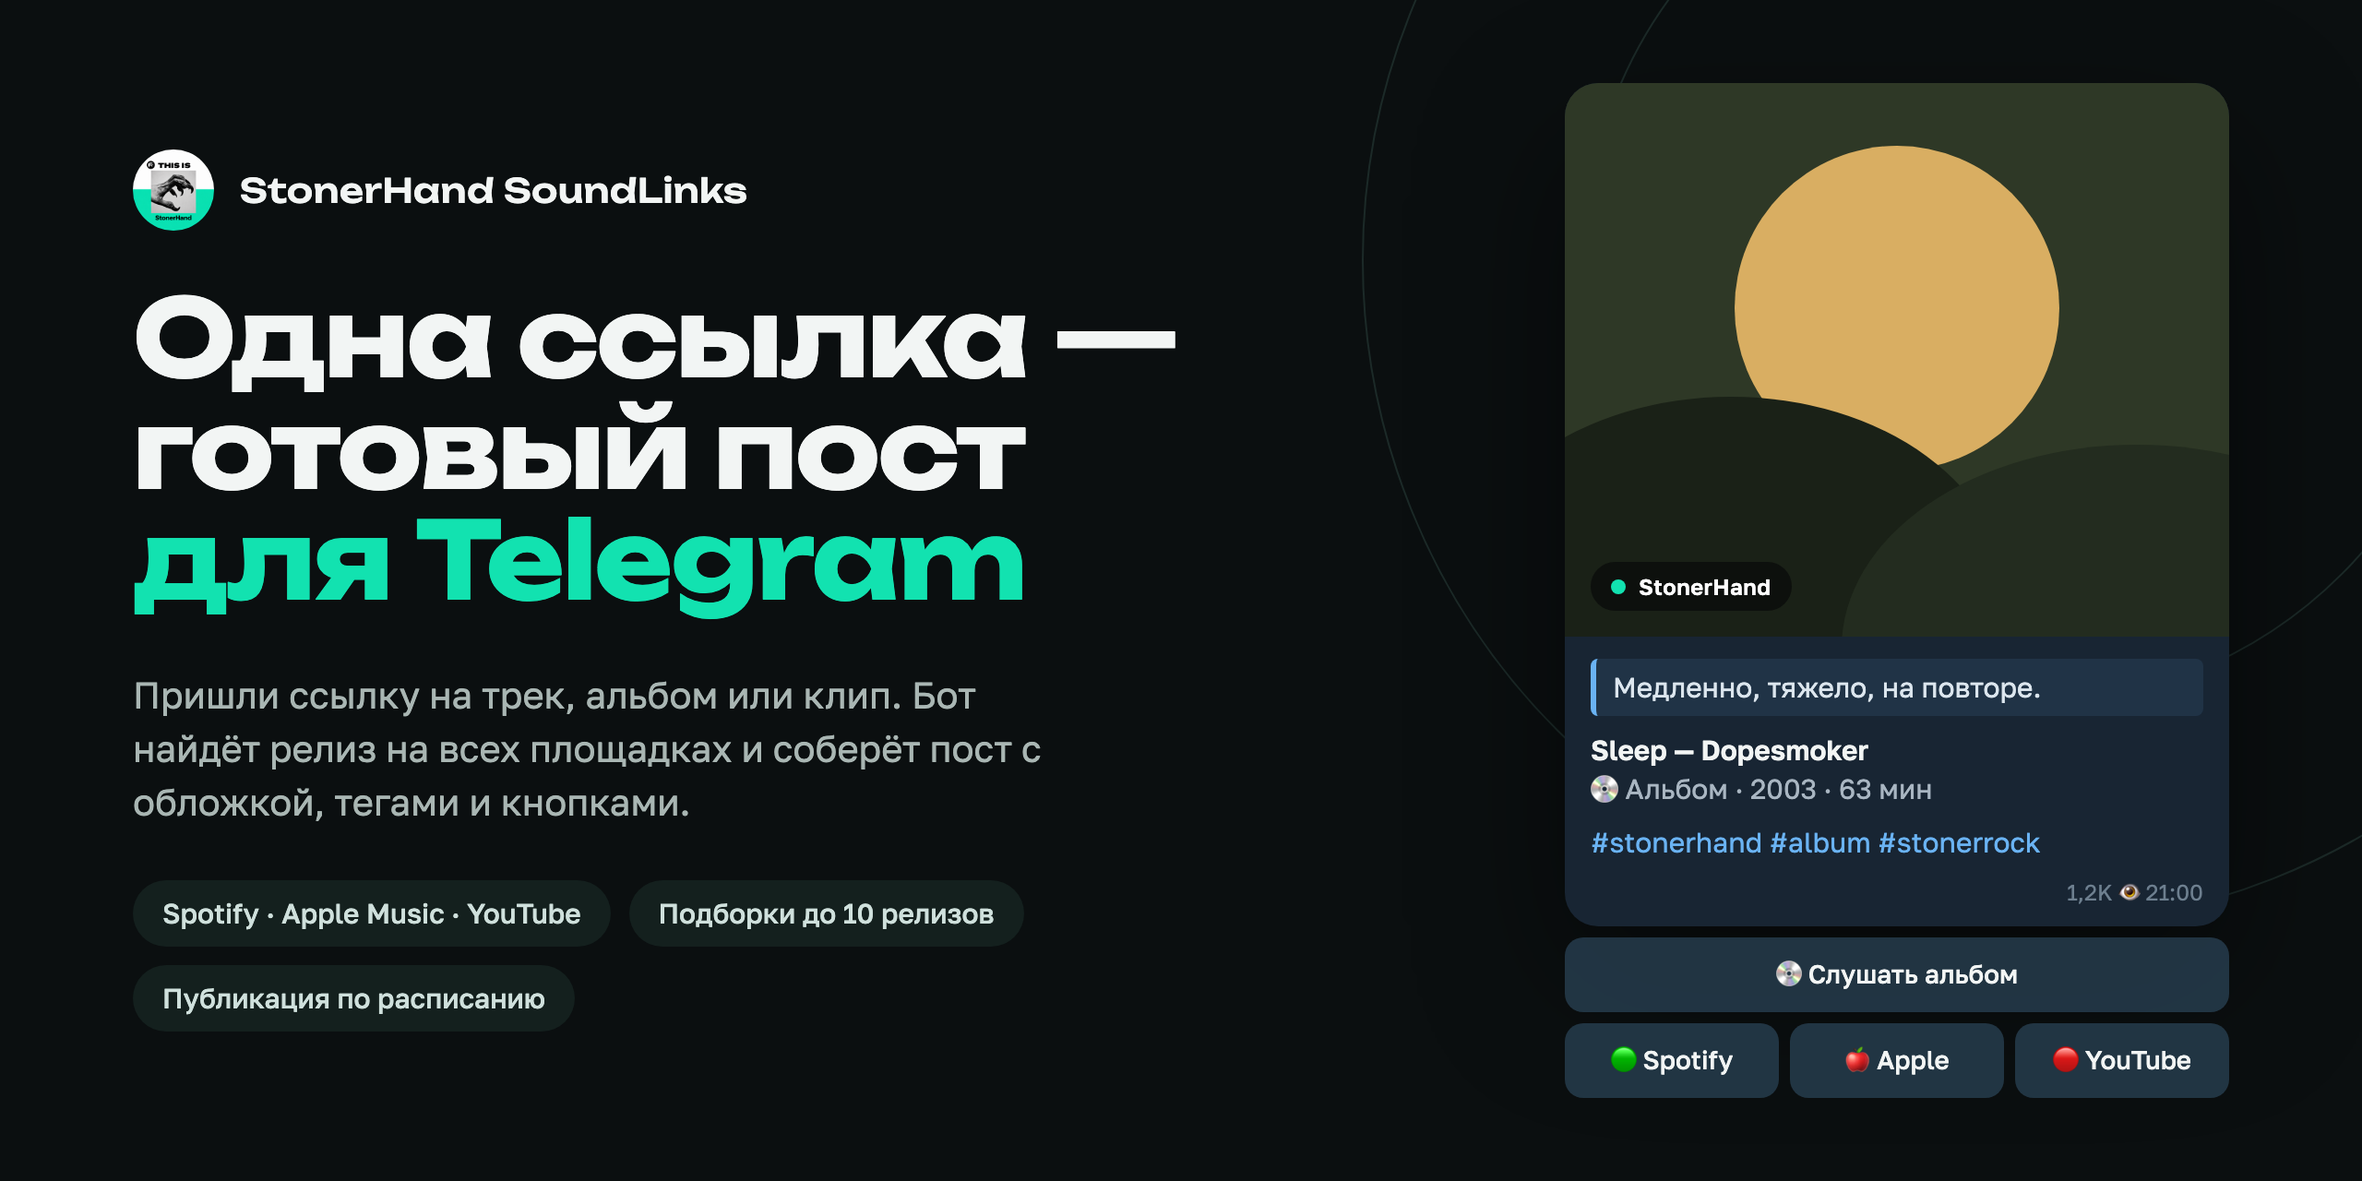
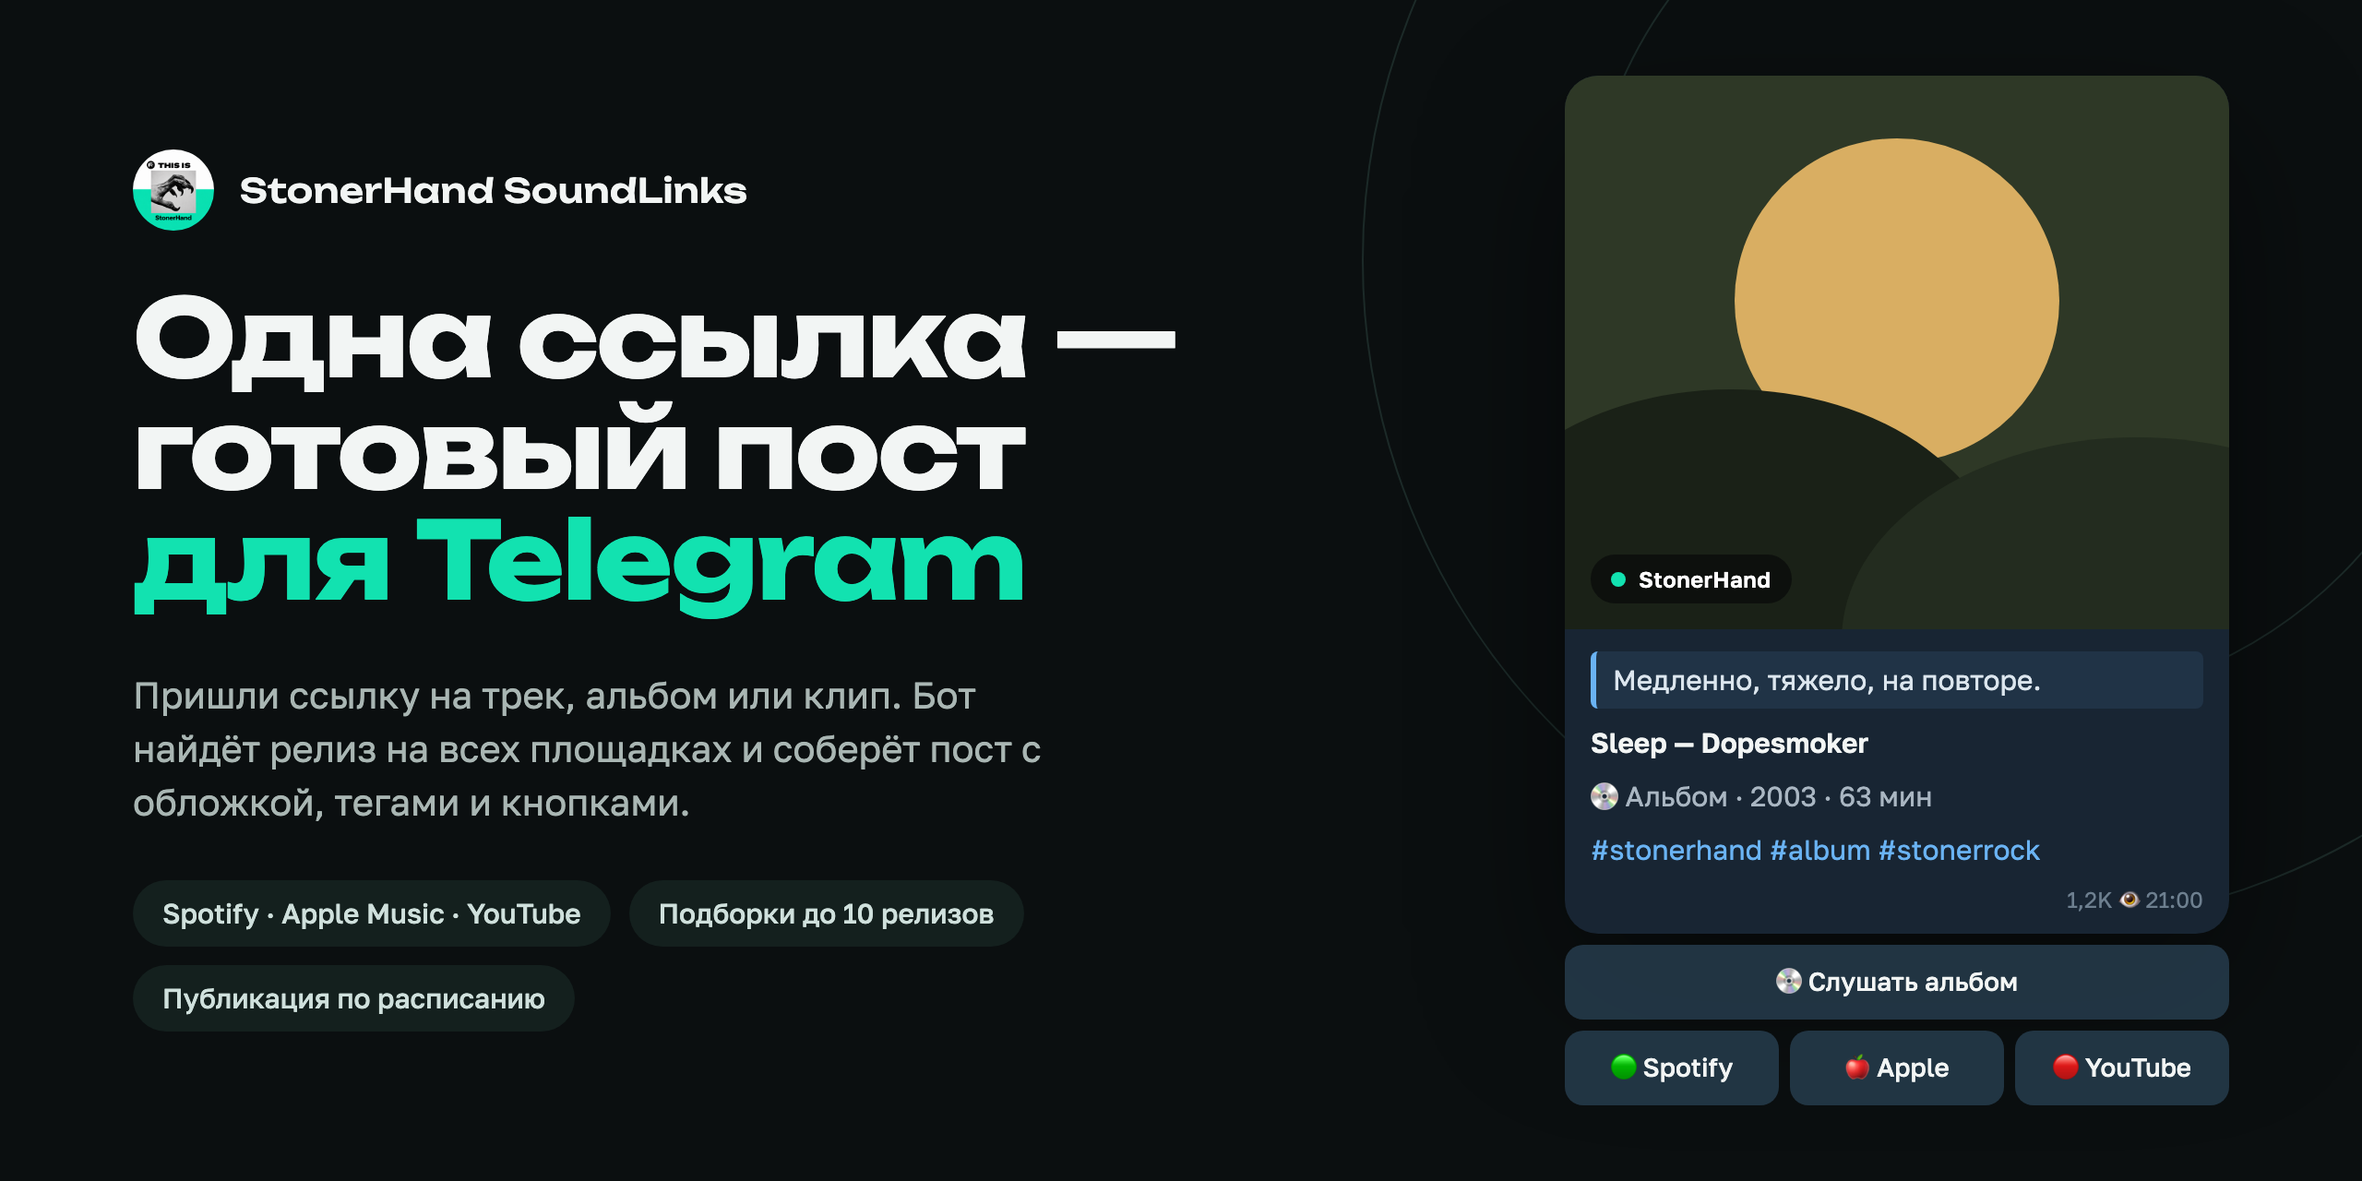
release: 2.1.2 — artist runs in collections, fresh previews, more tests
- Consecutive releases by one artist share one bold heading.
- The collection editor lists items as "01 · Artist — Title".
- Docs: QStash schedule every 5 minutes (288 of 500 free daily calls).
- README previews re-exported from the Claude Design canvas.
- New tests for callback routing and collection actions (coverage 81%).

diff --git a/tests/test_routing_and_crate.py b/tests/test_routing_and_crate.py
@@ -1,0 +1,173 @@
+"""Callback routing (bot.py) and collection actions (bot_crate_handlers.py)."""
+
+import unittest
+from types import SimpleNamespace
+from unittest.mock import AsyncMock, patch
+
+from music_links_bot import bot
+from music_links_bot.bot_crate import crate_item_key, load_crate, save_crate
+from music_links_bot.bot_crate_handlers import dispatch_crate_action
+from music_links_bot.bot_runtime import decode_callback, encode_callback
+
+
+def _query(data: str, *, user_id: int = 7, query_id: str = "q1"):
+    message = SimpleNamespace(
+        chat_id=user_id,
+        message_id=10,
+        reply_text=AsyncMock(return_value=SimpleNamespace(message_id=11)),
+    )
+    return SimpleNamespace(
+        id=query_id,
+        data=data,
+        from_user=SimpleNamespace(id=user_id, language_code="ru"),
+        message=message,
+        answer=AsyncMock(),
+    )
+
+
+def _context(bot_data: dict | None = None):
+    return SimpleNamespace(
+        application=SimpleNamespace(bot_data={} if bot_data is None else bot_data),
+        bot=SimpleNamespace(username="StonerHandBot"),
+    )
+
+
+class _Runtime:
+    def __init__(self, *, fresh: bool = True) -> None:
+        self.fresh = fresh
+        self.cancel_request_durable = AsyncMock(return_value=True)
+
+    async def claim_callback(self, callback_id: str) -> bool:
+        return self.fresh
+
+
+class CallbackRoutingTests(unittest.IsolatedAsyncioTestCase):
+    async def _route(self, data: str, *, runtime=None):
+        query = _query(data)
+        update = SimpleNamespace(callback_query=query)
+        with patch.object(bot, "_runtime", return_value=runtime or _Runtime()):
+            await bot.bot_callback(update, _context())
+        return query
+
+    async def test_undecodable_data_is_ignored(self) -> None:
+        query = await self._route("garbage")
+        query.answer.assert_not_awaited()
+
+    async def test_unknown_action_is_answered_and_dropped(self) -> None:
+        query = await self._route(encode_callback("menu", "no-such-action"))
+        query.answer.assert_awaited_once_with()
+
+    async def test_repeated_tap_is_answered_as_duplicate(self) -> None:
+        query = await self._route(
+            encode_callback("menu", "postfilter", "all"), runtime=_Runtime(fresh=False)
+        )
+        self.assertIn("уже", query.answer.await_args.args[0].casefold())
+
+    async def test_each_scope_reaches_its_handler(self) -> None:
+        for scope, action, target in (
+            ("crate", "open", "_dispatch_crate_action"),
+            ("editor", "sv", "_dispatch_editor_action"),
+            ("menu", "postfilter", "_dispatch_menu_action"),
+        ):
+            self.assertIsNotNone(bot.action_spec(scope, action))
+            with (
+                self.subTest(scope=scope),
+                patch.object(bot, target, new=AsyncMock()) as handler,
+            ):
+                await self._route(encode_callback(scope, action, "x"))
+                handler.assert_awaited_once()
+
+    async def test_stop_button_cancels_the_running_lookup(self) -> None:
+        runtime = _Runtime()
+        query = await self._route(
+            encode_callback("progress", "cancel"), runtime=runtime
+        )
+        runtime.cancel_request_durable.assert_awaited_once_with(7)
+        query.answer.assert_awaited_once()
+
+    async def test_playlist_import_from_someone_else_is_refused(self) -> None:
+        with (
+            patch.object(
+                bot, "_load_retry_sources", new=AsyncMock(return_value={"user_id": 99})
+            ),
+            patch.object(bot, "track_lookup_message", new=AsyncMock()) as lookup,
+        ):
+            query = await self._route(encode_callback("playlist", "import", "abc"))
+        lookup.assert_not_awaited()
+        self.assertTrue(query.answer.await_args.kwargs.get("show_alert"))
+
+    async def test_playlist_import_runs_one_lookup_with_the_saved_links(self) -> None:
+        seen: list[str | None] = []
+
+        async def lookup(update, context):
+            seen.append(bot._INPUT_OVERRIDE.get())
+
+        payload = {"user_id": 7, "urls": ["https://a.example/1", "https://a.example/2"]}
+        with (
+            patch.object(
+                bot, "_load_retry_sources", new=AsyncMock(return_value=payload)
+            ),
+            patch.object(bot, "_adopt_progress_message"),
+            patch.object(bot, "track_lookup_message", new=lookup),
+        ):
+            await self._route(encode_callback("playlist", "import", "abc"))
+        self.assertEqual(seen, ["https://a.example/1\nhttps://a.example/2"])
+        self.assertIsNone(bot._INPUT_OVERRIDE.get())
+
+
+def _entry(artist: str, title: str) -> dict:
+    return {"item": {"artist": artist, "title": title, "links": {}}}
+
+
+class CrateActionTests(unittest.IsolatedAsyncioTestCase):
+    async def asyncSetUp(self) -> None:
+        self.context = _context()
+        self.bot_data = self.context.application.bot_data
+        await save_crate(
+            self.bot_data,
+            7,
+            [_entry("Kyuss", "Green Machine"), _entry("Sleep", "Dragonaut")],
+        )
+        self.items = await load_crate(self.bot_data, 7)
+        self.edits: list[tuple[str, object]] = []
+
+        async def safe_edit(query, text, keyboard):
+            self.edits.append((text, keyboard))
+
+        patcher = patch("music_links_bot.bot_crate_handlers.safe_edit", new=safe_edit)
+        patcher.start()
+        self.addCleanup(patcher.stop)
+
+    async def _act(self, action: str, payload: str = ""):
+        query = _query(encode_callback("crate", action, payload))
+        await dispatch_crate_action(query, self.context, decode_callback(query.data))
+        return query
+
+    async def _titles(self) -> list[str]:
+        return [e["item"]["title"] for e in await load_crate(self.bot_data, 7)]
+
+    async def test_old_positional_buttons_are_refused_safely(self) -> None:
+        query = await self._act("up", "1")
+        self.assertTrue(query.answer.await_args.kwargs.get("show_alert"))
+        self.assertEqual(await self._titles(), ["Green Machine", "Dragonaut"])
+
+    async def test_moving_an_item_down_reorders_the_collection(self) -> None:
+        await self._act("down", crate_item_key(self.items[0]))
+        self.assertEqual(await self._titles(), ["Dragonaut", "Green Machine"])
+        self.assertIn("Dragonaut", self.edits[-1][0])
+
+    async def test_removing_an_item_can_be_undone(self) -> None:
+        await self._act("remove", crate_item_key(self.items[0]))
+        self.assertEqual(await self._titles(), ["Dragonaut"])
+        await self._act("undo")
+        self.assertEqual(await self._titles(), ["Green Machine", "Dragonaut"])
+
+    async def test_list_uses_the_published_number_style(self) -> None:
+        await self._act("open")
+        text = self.edits[-1][0]
+        self.assertIn("<code>01</code> · <b>Kyuss</b> — Green Machine", text)
+        self.assertIn("<code>02</code> · <b>Sleep</b> — Dragonaut", text)
+
+
+if __name__ == "__main__":
+    unittest.main()

diff --git a/src/music_links_bot/formatter.py b/src/music_links_bot/formatter.py
@@ -454,6 +454,12 @@ def format_collection_message(
     if shared_artist and not title_named_artist:
         # The heading names something else: keep the artist above the list.
         lines.append(f"<b>{_display_text(shared_artist)}</b>")
+    groups = (
+        _artist_runs(tracks)
+        if not shared_artist
+        and not any(section.strip() for section in (item_sections or []))
+        else [""] * len(tracks)
+    )
     for index, track in enumerate(tracks, start=1):
         section = (
             item_sections[index - 1].strip()
@@ -465,12 +471,21 @@ def format_collection_message(
                 lines.append("")
             lines.append(f"<b>{_display_text(section, 64)}</b>")
             active_section = section
+        group = groups[index - 1]
+        previous = groups[index - 2] if index > 1 else ""
+        if group and group != previous:
+            # Several releases in a row by one artist: name them once.
+            if lines and lines[-1]:
+                lines.append("")
+            lines.append(f"<b>{_display_text(group, MAX_COLLECTION_TEXT_LENGTH)}</b>")
+        elif previous and not group:
+            lines.append("")
         title_text = _display_text(
             compact_release_title(track.title),
             MAX_COLLECTION_TEXT_LENGTH,
         )
         number = _list_number(index)
-        if shared_artist:
+        if shared_artist or group:
             lines.append(f"{number} · {title_text}")
         else:
             artist = _display_text(track.artist, MAX_COLLECTION_TEXT_LENGTH)
@@ -493,6 +508,21 @@ def format_collection_message(
             include_hashtags=include_hashtags,
         )
     )
+
+
+def _artist_runs(tracks: list[TrackMatch]) -> list[str]:
+    """The artist of each item that sits in a run of 2+ by that artist, else ""."""
+    keys = [" ".join(track.artist.split()).casefold() for track in tracks]
+    runs = [""] * len(tracks)
+    start = 0
+    while start < len(tracks):
+        end = start
+        while end + 1 < len(tracks) and keys[start] and keys[end + 1] == keys[start]:
+            end += 1
+        if end > start:
+            runs[start : end + 1] = [tracks[start].artist] * (end - start + 1)
+        start = end + 1
+    return runs
 
 
 def _fit_collection_message(value: str) -> str:

diff --git a/tests/test_formatter.py b/tests/test_formatter.py
@@ -500,5 +500,24 @@ class FormatterTests(unittest.TestCase):
         self.assertIn("#stonerhand #collection #radio #video", message)
 
 
+class ArtistRunTests(unittest.TestCase):
+    def test_consecutive_releases_by_one_artist_share_a_heading(self) -> None:
+        tracks = [
+            TrackMatch(artist="Kyuss", title="Green Machine", links={}),
+            TrackMatch(artist="MSI", title="Pay For It", links={}),
+            TrackMatch(artist="MSI", title="1989", links={}),
+            TrackMatch(artist="Deftones", title="Rickets", links={}),
+        ]
+
+        message = format_collection_message(tracks, include_hashtags=False)
+
+        self.assertIn(
+            "<code>01</code> · <b>Kyuss</b> — Green Machine\n\n"
+            "<b>MSI</b>\n<code>02</code> · Pay For It\n<code>03</code> · 1989\n\n"
+            "<code>04</code> · <b>Deftones</b> — Rickets",
+            message,
+        )
+
+
 if __name__ == "__main__":
     unittest.main()

diff --git a/src/music_links_bot/bot_ui.py b/src/music_links_bot/bot_ui.py
@@ -1015,8 +1015,10 @@ def render_crate(
         lines = [heading, ""]
         for index, entry in enumerate(items, 1):
             item = entry.get("item") or {}
+            # Same list style as the published collection: "01 · Artist — Title".
             lines.append(
-                f"<b>{index}.</b> {escape(str(item.get('artist') or '—'))} — "
+                f"<code>{index:02}</code> · "
+                f"<b>{escape(str(item.get('artist') or '—'))}</b> — "
                 f"{escape(str(item.get('title') or '—'))}"
             )
         from music_links_bot.collection_plan import (

diff --git a/src/music_links_bot/__init__.py b/src/music_links_bot/__init__.py
@@ -1,3 +1,3 @@
 """Music Links Telegram Bot."""
 
-__version__ = "2.1.1"
+__version__ = "2.1.2"

diff --git a/docs/ARCHITECTURE.ru.md b/docs/ARCHITECTURE.ru.md
@@ -347,7 +347,7 @@ Webhook worker не запускает: пользовательский update 
   только HTTP(S)-ссылки до создания строгой модели релиза;
 - health endpoint параллельно и без побочных эффектов проверяет Telegram и
   webhook, выполняет Redis PING, читает очередь/метрики и возвращает version/commit;
-- расписание Upstash QStash вызывает queue worker каждые три минуты с подписью
+- расписание Upstash QStash вызывает queue worker каждые пять минут с подписью
   запроса, а Vercel Cron остаётся суточным резервом; последний tick хранится в Redis;
 - перед вызовом Telegram задача переходит в `delivering`: подтверждённый отказ
   получает backoff, а потерянный ответ становится `uncertain` без слепого повтора;

diff --git a/CHANGELOG.md b/CHANGELOG.md
@@ -1,5 +1,16 @@
 # Changelog
 
+## 2.1.2 — 2026-10-13
+
+- Подряд идущие релизы одного артиста в подборке собраны под одним жирным
+  заголовком: «**Mindless Self Indulgence**», ниже «02 · Pay For It» и т.д.
+- Экран редактирования подборки показывает список в том же стиле, что и пост:
+  «01 · **Артист** — Трек».
+- Расписание очереди в документации — раз в 5 минут (288 запросов QStash в
+  день вместо 480 при лимите 500).
+- Превью в README перерисованы под текущий вид постов и подборок.
+- +12 тестов на маршрутизацию кнопок и действия с подборкой; покрытие 81%.
+
 ## 2.1.1 — 2026-10-12
 
 - Подборка оформлена как трек-лист альбома: «🎶 Артист» (или своё название)

diff --git a/docs/SETUP.ru.md b/docs/SETUP.ru.md
@@ -136,7 +136,7 @@ curl --fail-with-body --silent --show-error \
    к проекту. Vercel сам добавит `QSTASH_CURRENT_SIGNING_KEY` и
    `QSTASH_NEXT_SIGNING_KEY`; сделайте Redeploy, чтобы функции их увидели.
 2. Upstash → QStash → **Schedules → Create**: Destination
-   `https://<ваш-домен>/api/queue_worker`, Cron `*/3 * * * *` (бесплатного лимита QStash хватает с запасом), метод `POST`.
+   `https://<ваш-домен>/api/queue_worker`, Cron `*/5 * * * *` (288 запросов в день — с запасом в бесплатном лимите 500), метод `POST`.
 
 Обработчик проверяет подпись QStash (`Upstash-Signature`) по этим ключам, так
 что копировать секрет в заголовок не нужно. `GET`/`POST` с

diff --git a/README.md b/README.md
@@ -76,7 +76,7 @@ python -m music_links_bot
 ```
 Telegram ──▶ Vercel /api/telegram ──▶ поиск релиза (Songlink, iTunes, MusicBrainz, YouTube)
                                    └─▶ черновик в Upstash Redis ──▶ пост в чат или канал
-QStash каждые 3 мин ──▶ /api/queue_worker ──▶ отложенные публикации
+QStash каждые 5 мин ──▶ /api/queue_worker ──▶ отложенные публикации
 ```
 
 Python, [python-telegram-bot](https://python-telegram-bot.org), serverless-функции Vercel. CI проверяет Python 3.10–3.12, тесты с покрытием, типы, стиль и безопасность. Подробности — в [архитектуре](docs/ARCHITECTURE.ru.md), изменения — в [CHANGELOG](CHANGELOG.md).
